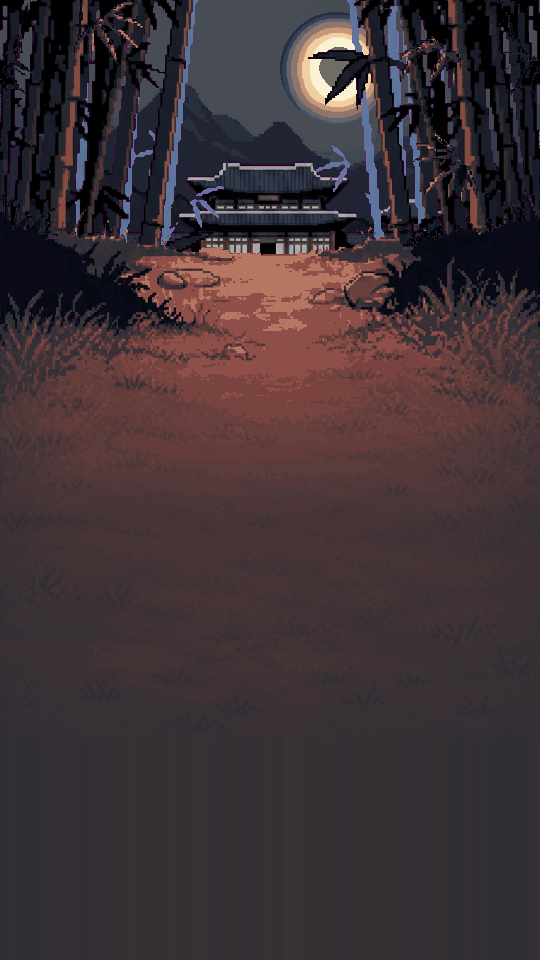
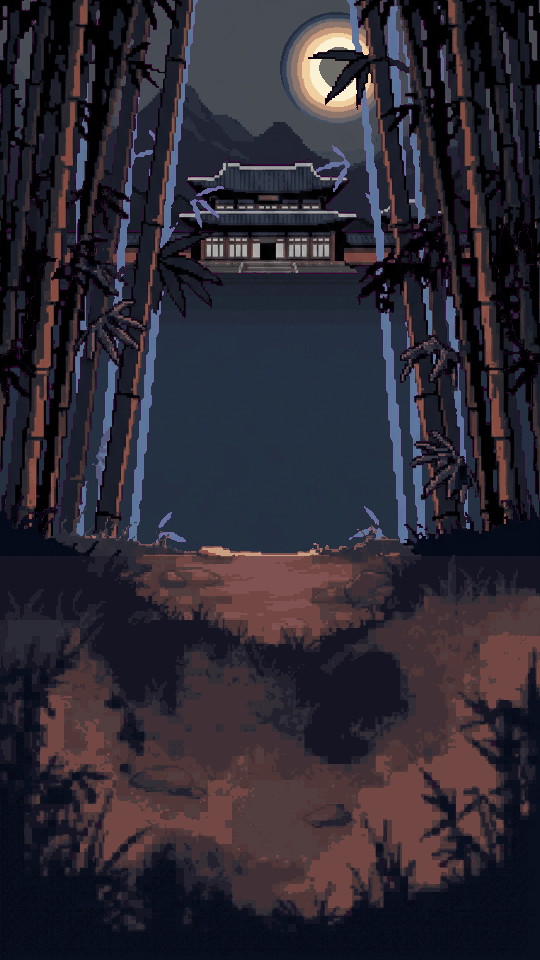
fix(assets): restore textured title ground

diff --git a/tools/asset/process_title_layers.py b/tools/asset/process_title_layers.py
@@ -2,6 +2,7 @@
 
 from __future__ import annotations
 
+import hashlib
 import json
 import math
 from pathlib import Path
@@ -14,6 +15,9 @@ TITLE = ROOT / "asset/title"
 RAW = TITLE / "raw"
 LAYERS = TITLE / "layers"
 CANVAS = (540, 960)
[3 lines of base64/hex data omitted]
 
 
 def flattened(image: Image.Image):
@@ -72,54 +76,73 @@ def transparent_layer(name: str) -> Image.Image:
 
 
 def ground_layer() -> Image.Image:
-    """Move path interest above the controls and quiet the action band.
+    """Compress local contrast in the controls band without erasing detail.
 
-    The targeted image edit supplies a cleaner inhabited-earth source but still
-    placed its main path around y530. Shift that authored interest upward, then
-    use its low ground texture at deliberately compressed contrast below the
-    middle band so five button labels never compete with stones or black holes.
+    The 8429e00 ground is reproduced by transparent_layer("ground"). Preserve
+    it byte-for-byte above y556, then pull each opaque pixel toward the mean of
+    the opaque pixels in its fixed 8x8 neighbourhood. Alpha never changes, so
+    stones, grass, path edges, and the full-height bamboo framing keep their
+    exact positions while their local value contrast is reduced linearly.
     """
-    edited_path = RAW / "ground_action_band_edit_openai.png"
-    if not edited_path.is_file():
-        raise FileNotFoundError(f"missing targeted ground edit: {edited_path}")
-    fitted = ImageOps.fit(
-        Image.open(edited_path).convert("RGB"),
-        CANVAS,
-        method=Image.Resampling.BOX,
-    )
-    keyed = key_magenta(fitted)
+    ground = transparent_layer("ground")
+    if hashlib.sha256(ground.tobytes()).hexdigest() != GROUND_8429_RGBA_SHA256:
+        raise RuntimeError("ground raw no longer reproduces the 8429e00 reference")
+    pixels = ground.load()
+    palette = sorted({pixel[:3] for pixel in flattened(ground) if pixel[3]})
+    factor = 0.40
+    tone_gain = 0.55
+    tone_offset = 16
+    band_top = 556
+    block_size = 8
+    for top in range(band_top, CANVAS[1], block_size):
+        for left in range(0, CANVAS[0], block_size):
+            coordinates = [
+                (x, y)
+                for y in range(top, min(top + block_size, CANVAS[1]))
+                for x in range(left, min(left + block_size, CANVAS[0]))
+                if pixels[x, y][3] == 255
+            ]
+            if not coordinates:
+                continue
+            means = tuple(
+                sum(pixels[x, y][channel] for x, y in coordinates) / len(coordinates)
+                for channel in range(3)
+            )
+            for x, y in coordinates:
+                r, g, b, alpha = pixels[x, y]
+                pixels[x, y] = (
+                    round(means[0] + factor * (r - means[0])),
+                    round(means[1] + factor * (g - means[1])),
+                    round(means[2] + factor * (b - means[2])),
+                    alpha,
+                )
 
-    moved = Image.new("RGBA", CANVAS, (0, 0, 0, 0))
-    moved.alpha_composite(keyed, (0, -300))
-
-    base = (38, 42, 48)
-    fitted_pixels = fitted.load()
-    keyed_alpha = keyed.getchannel("A").load()
-    moved_pixels = moved.load()
-    quiet_start = 320
-    quiet_end = 520
-    for y in range(quiet_start, CANVAS[1]):
-        quiet_strength = min(1.0, (y - quiet_start) / (quiet_end - quiet_start))
+    # The local operation preserves block means, so separately fit the action
+    # band's overall value range to the UI contrast target. Snap back to the
+    # original 48-colour ground palette; this keeps the area pixel-authored and
+    # leaves every byte above band_top untouched.
+    nearest_cache = {}
+    for y in range(band_top, CANVAS[1]):
         for x in range(CANVAS[0]):
-            texture_y = min(CANVAS[1] - 1, y + 220)
-            if keyed_alpha[x, texture_y]:
-                sr, sg, sb = fitted_pixels[x, texture_y]
-            else:
-                sr, sg, sb = base
-            # Keep subtle earth texture while compressing the controls' value
-            # range. Cross-fade into it to avoid a horizontal processing seam.
-            qr = base[0] * 0.70 + sr * 0.30
-            qg = base[1] * 0.70 + sg * 0.30
-            qb = base[2] * 0.70 + sb * 0.30
-            mr, mg, mb, ma = moved_pixels[x, y]
-            if ma == 0:
-                mr, mg, mb = qr, qg, qb
-            r = round(mr * (1.0 - quiet_strength) + qr * quiet_strength)
-            g = round(mg * (1.0 - quiet_strength) + qg * quiet_strength)
-            b = round(mb * (1.0 - quiet_strength) + qb * quiet_strength)
-            moved_pixels[x, y] = (r, g, b, 255)
-
-    return quantise(moved)
+            r, g, b, alpha = pixels[x, y]
+            if alpha == 0:
+                continue
+            mapped = (
+                round(r * tone_gain + tone_offset),
+                round(g * tone_gain + tone_offset),
+                round(b * tone_gain + tone_offset),
+            )
+            if mapped not in nearest_cache:
+                nearest_cache[mapped] = min(
+                    palette,
+                    key=lambda colour: sum((colour[channel] - mapped[channel]) ** 2 for channel in range(3)),
+                )
+            pixels[x, y] = (*nearest_cache[mapped], alpha)
+    if hashlib.sha256(ground.crop((0, 0, 540, band_top)).tobytes()).hexdigest() != GROUND_8429_UPPER_SHA256:
+        raise RuntimeError("ground processing changed pixels above the action band")
+    if hashlib.sha256(ground.getchannel("A").tobytes()).hexdigest() != GROUND_8429_ALPHA_SHA256:
+        raise RuntimeError("ground processing changed the 8429e00 alpha silhouette")
+    return ground
 
 
 def moon_glow() -> Image.Image:

diff --git a/tools/asset/verify_assets.py b/tools/asset/verify_assets.py
@@ -16,6 +16,8 @@ CHARACTER_ROTATION_DIRECTIONS = (
     "north", "north-west", "west", "south-west",
 )
 CHARACTER_NEAR_DUPLICATE_THRESHOLD = 2.5
[2 lines of base64/hex data omitted]
 
 
 def fail(message):
@@ -191,6 +193,20 @@ def measure_title_action_band(composite):
     }
 
 
+def validate_title_action_band(band):
+    band_mean = band.get("mean_luminance", math.inf)
+    band_stddev = band.get("local_8px_stddev", math.inf)
+    band_max = band.get("max_luminance", math.inf)
+    if not 40.0 <= band_mean <= 55.0:
+        fail(f"title action band: mean luminance {band_mean:.2f} is outside 40..55")
+    if band_stddev < 3.0:
+        fail(f"title action band: 8px local stddev {band_stddev:.2f} is below 3.0 (ground detail erased)")
+    if band_stddev > 7.0:
+        fail(f"title action band: 8px local stddev {band_stddev:.2f} exceeds 7.0 (too busy for controls)")
+    if band_max > 110.0:
+        fail(f"title action band: max luminance {band_max:.2f} exceeds 110")
+
+
 def check_title_layers():
     """Verify the full-canvas registered title stack and scrolling members."""
     layer_names = ("sky", "moon_glow", "palace", "bamboo_far", "bamboo_near", "ground")
@@ -218,6 +234,12 @@ def check_title_layers():
             for pixel in layer.get_flattened_data()
         ):
             fail(f"{path}: opaque chroma-magenta fringe survived cutout")
+
+    ground = image("asset/title/layers/ground.png")
+    if hashlib.sha256(ground.crop((0, 0, 540, 556)).tobytes()).hexdigest() != GROUND_8429_UPPER_SHA256:
+        fail("asset/title/layers/ground.png: pixels above y556 differ from 8429e00")
+    if hashlib.sha256(ground.getchannel("A").tobytes()).hexdigest() != GROUND_8429_ALPHA_SHA256:
+        fail("asset/title/layers/ground.png: alpha silhouette differs from 8429e00")
 
     fog = image("asset/title/fog_strip.png")
     if fog.size != (1080, 320):
@@ -252,15 +274,7 @@ def check_title_layers():
     recorded_band = metrics.get("action_band", {})
     if any(abs(recorded_band.get(key, math.inf) - value) > 1e-6 for key, value in band.items()):
         fail("title action band: recorded metrics do not match the review composite")
-    band_mean = band.get("mean_luminance", math.inf)
-    band_stddev = band.get("local_8px_stddev", math.inf)
-    band_max = band.get("max_luminance", math.inf)
-    if not 40.0 <= band_mean <= 55.0:
-        fail(f"title action band: mean luminance {band_mean:.2f} is outside 40..55")
-    if band_stddev > 7.0:
-        fail(f"title action band: 8px local stddev {band_stddev:.2f} exceeds 7.0")
-    if band_max > 110.0:
-        fail(f"title action band: max luminance {band_max:.2f} exceeds 110")
+    validate_title_action_band(band)
     return band
 
 

diff --git a/asset/TITLE_AUDIO_REPORT.md b/asset/TITLE_AUDIO_REPORT.md
@@ -90,15 +90,16 @@ No offset or coordinate manifest exists or is needed. Retained review artifacts:
 I inspected the complete composite beside `asset/stage/backdrops/main_menu.png`,
 not just the individual files. There are no holes: the opaque sky remains behind
 every transparent omission. The original lower two-thirds measured **21.25**
-mean luminance; the corrected stack measures **55.62**. More importantly, the
-actual action band at x32..508, y556..936 measures **50.61** mean luminance,
-**0.54** mean local 8x8 standard deviation, and **60.61** maximum luminance,
-inside the 40..55 / <=7 / <=110 targets. The palace roof and windows,
+mean luminance; the corrected stack measures **42.77**. More importantly, the
+actual action band at x32..508, y556..936 measures **45.90** mean luminance,
+**3.61** mean local 8x8 standard deviation, and **92.49** maximum luminance,
+inside the 40..55 / 3..7 / <=110 targets. The palace roof and windows,
 cool far bamboo, dark near framing and warm foreground form visible value steps.
 Near trunks partially occlude the moon/halo as foreground should, while the central
-corridor remains open for the logo and controls. Path stones, rubble, and warm
-highlights now occupy y300..490; below y600 the ground settles into a continuous,
-subtle-texture plane so button labels do not compete with local highlights or holes.
+corridor remains open for the logo and controls. The bamboo corridor, leaf detail,
+stones, grass clumps, banks, and dark path hollows all remain visible at full height:
+the action band reads as subdued ground, not as the empty wash produced by the
+previous one-sided contrast target and not as the original flat backdrop's dark mush.
 
 ### Generation, raw retention and honest corrections
 
@@ -136,12 +137,16 @@ The fog was mirror-wrapped after chroma removal: generated content is retained,
 but the outer seam is mechanically exact rather than trusting a model's
 "seamless" claim. Every raw remains under `asset/title/raw/` for recutting.
 
-The action-band correction used one targeted OpenAI image edit, conditioned on
-the existing ground layer and title composite, to author a quieter inhabited-earth
-source with the detail moved upward. The retained raw is
-`asset/title/raw/ground_action_band_edit_openai.png`; deterministic processing
-shifts its path upward, cross-fades into a compressed-contrast lower texture, and
-recomputes the exact action-band metric.
+The first action-band correction used a targeted OpenAI edit, retained at
+`asset/title/raw/ground_action_band_edit_openai.png`, but its lower half became a
+wash and it no longer feeds the runtime layer. The accepted correction instead
+reproduces `8429e00:asset/title/layers/ground.png` from the original Higgsfield raw,
+leaves every pixel above y556 unchanged, and preserves the complete alpha silhouette.
+Within the band, every opaque pixel is pulled 40% toward its opaque 8x8 block mean,
+then the block means are fitted with `0.55 * channel + 16` and snapped back to the
+original ground palette. This preserves every edge position while keeping both
+texture and UI-safe contrast. Measured against 8429e00, the upper region and full
+alpha mask each differ by **0 pixels**.
 
 ### Credits
 
@@ -149,6 +154,7 @@ recomputes the exact action-band metric.
 - Preflight: **2 credits each**, eight individual jobs, **16 credits estimated**
 - Balance after: **808.55**
 - Actual spend: **16.00 credits**
+- Deterministic action-band redo: **0 credits**
 
 ## Integration notes
 
@@ -197,8 +203,9 @@ Character near-duplicate gate verified: 84 pairs at mean-RGBA threshold 2.50; mi
 UI journey verified: 47 icons, 11 illustrations, 31 nine-slices, 3 fixed controls; WCAG-AA/state gates passed
 Camp identity verified: 2 warm seamless tiles + 3 rotatable north-facing transition overlays
 Button redesign verified: 3 directions x 4 states; selected royal_seal, 6x8 margins, WCAG-AA/pressed-shape gates passed
-Layered title verified: 6 registered 540x960 layers + seamless 1080x320 fog + 8x8 mote; action band mean=50.61, local8=0.54, max=60.61
+Layered title verified: 6 registered 540x960 layers + seamless 1080x320 fog + 8x8 mote; action band mean=45.90, local8=3.61, max=92.49
 PASS audio inventory negative-path: omitted energy_sound.wav was rejected
+PASS title contrast negative paths: wash 0.54 and busy 13.65 both rejected
 ```
 
 Focused checks also passed: `python -m py_compile` for both new processors and

diff --git a/tools/asset/README.md b/tools/asset/README.md
@@ -111,7 +111,10 @@ M1 helper scripts are deterministic and safe to rerun:
   files the three MP3s losslessly, and trims/resamples/levels the four replacement one-shots.
 - `process_title_layers.py` cuts the eight individually generated title members at their
   registered canvases, extracts the valid halo/mote from two over-generated raws, builds the
-  review composite, and mirror-wraps the horizontal fog seam.
+  review composite, mirror-wraps the horizontal fog seam, and locally compresses the
+  8429e00 ground's control band without moving or erasing its authored detail. The action
+  band must retain 3.0--7.0 local 8px luminance deviation; a lower number is a failed wash,
+  not an improvement.
 - `verify_assets.py` checks fixed canvases, hard alpha, chroma removal, tile seams, palettes,
   audio formats/peaks, rejects unregistered runtime audio, and checks the retained
   motion-consistency evidence.
